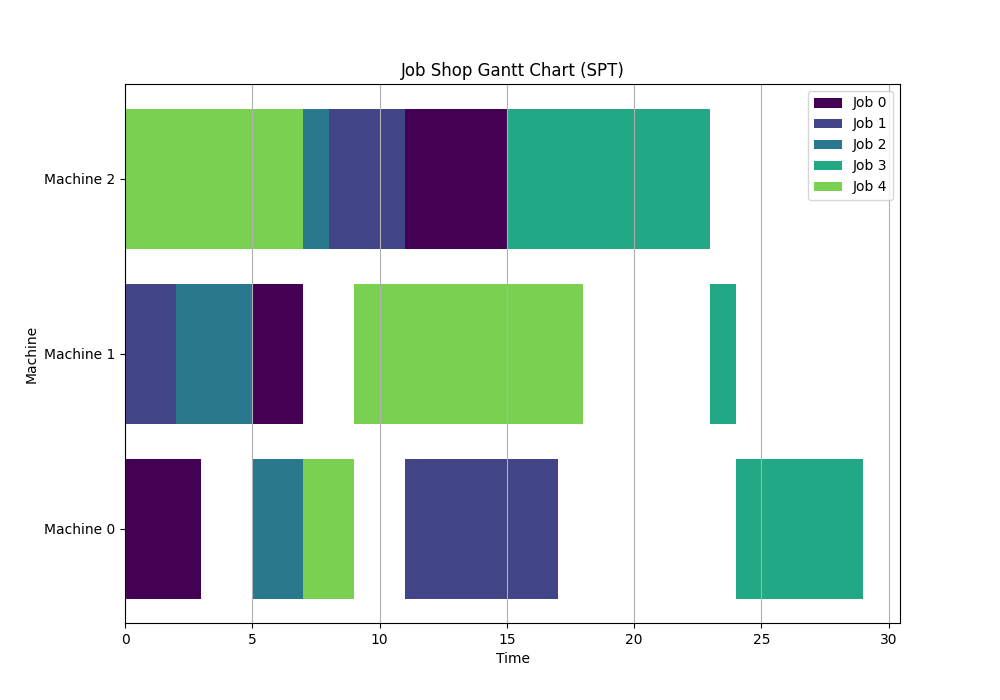
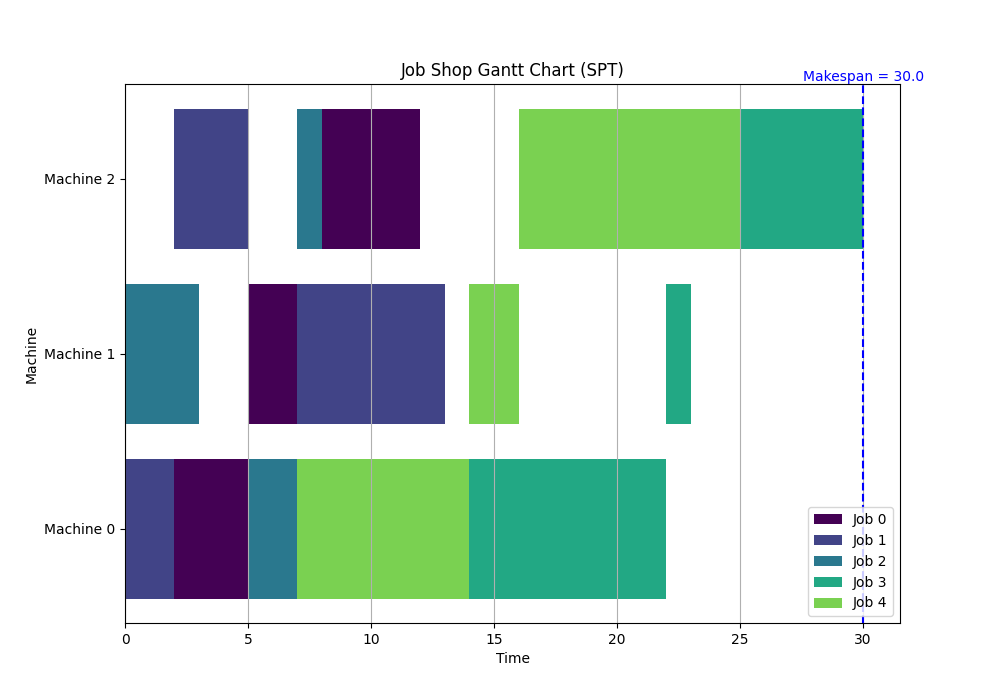
visualization method updated

diff --git a/visualize.py b/visualize.py
@@ -1,5 +1,4 @@
 import pandas as pd
-import numpy as np
 import matplotlib.pyplot as plt
 from matplotlib.cm import get_cmap
 from matplotlib.ticker import FuncFormatter
@@ -33,8 +32,13 @@ def gantt(num_jobs, outputpath='./JobShop/output', mode='SPT'):
     ax.grid(axis='x')
     print('makespan:', makespan)
 
+    
+    plt.axvline(x=makespan, color='b', linestyle='--')
+    plt.text(makespan, 1, f'Makespan = {makespan}', color='b', ha='center', va='bottom', transform=plt.gca().get_xaxis_transform())
+    # plt.text(makespan, -0.018, f'{makespan}', color='b', ha='center', va='top', transform=plt.gca().get_xaxis_transform())
+
     handles, labels = plt.gca().get_legend_handles_labels()
     by_label = dict(zip(labels, handles))
-    plt.legend(by_label.values(), by_label.keys())
+    plt.legend(by_label.values(), by_label.keys(), loc='lower right')
     plt.savefig(outputpath + '/Gantt_Chart.png')
     plt.show()

diff --git a/simulation.py b/simulation.py
@@ -1,7 +1,6 @@
 import simpy
 import pandas as pd
 from pseudo_store import pseudo_store
-from visualize import gantt
 
 class Job(object):
     def __init__(self, id, data, num_machines) -> None:

diff --git a/main.py b/main.py
@@ -1,4 +1,5 @@
 from preprocessing import setdata, standard_specification
+from visualize import gantt
 from simulation import *
 
 if __name__ == '__main__':

diff --git a/README.md b/README.md
@@ -25,11 +25,14 @@ The simulator can be used to model a job shop environment where multiple jobs ar
 To use this simulator, you must first provide a text file with the job data. The job data file follows `Standard Specification`, and should specify the number of jobs, the number of machines, and the machine order and operation time for each job. 
 
 Here is an example of the data file format:
+
 ```txt
 5 3
 0 3 1 2 2 4
-1 2 2 3 0 6
-...
+0 2 2 3 1 6
+1 3 0 2 2 1
+0 8 1 1 2 5
+0 7 1 2 2 9
 ```
 
 This data file specifies a job shop with 5 jobs and 3 machines. The first job's machine order is 0 -> 1 -> 2, and the operation times on these machines are 3, 2, and 4 respectively.
@@ -53,6 +56,8 @@ The simulation generates a CSV file ('JobShop/output/eventlog.csv') that logs im
 - Machine: The machine involved in the event.
 
 After running the simulation, the program generates a Gantt chart showing the operation of the job shop. The x-axis represents time, and the y-axis represents machines. Each job is represented by a colored block. The left edge of the block indicates the start time of the job, and the right edge indicates the end time. Different jobs are shown in different colors.
+
+![image not found](output/example_Gantt_Chart.png)
 
 ## Dependencies
 
